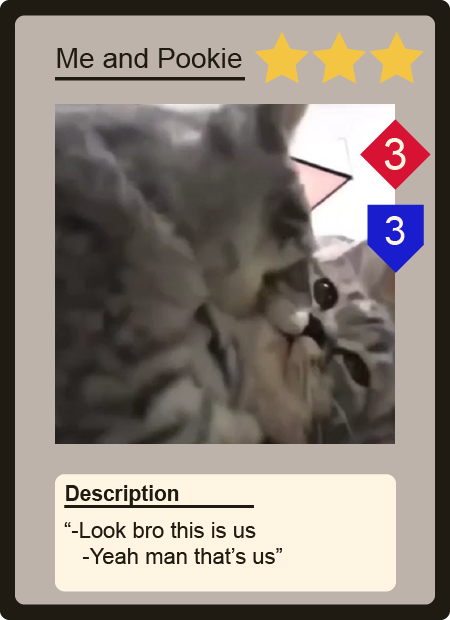
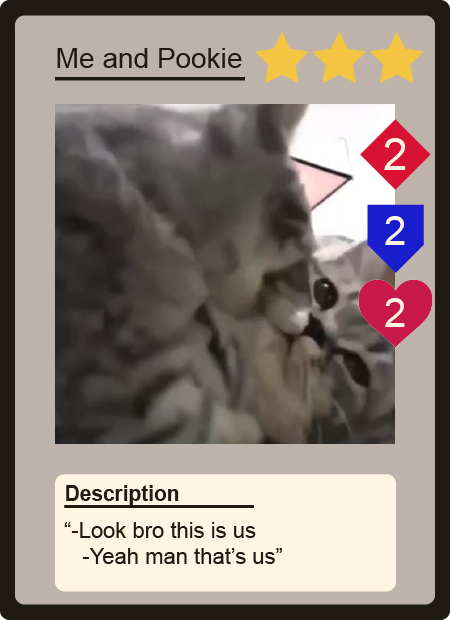
Added special effects for cards: healing, swapping and stealing

Changed region(s): [[0.7778, 0.429, 0.9644, 0.5823], [0.84, 0.3371, 0.9022, 0.3984], [0.84, 0.2145, 0.9022, 0.2758]]

diff --git a/controllers/gameControllers.js b/controllers/gameControllers.js
@@ -140,6 +140,36 @@ export const playCard = (io, socket, info, games) => {
         opponent.hp -= remainingAtk;
     }
 
+    player.hp = Math.min(20, player.hp + card.heal);
+
+    if (card.ability) {
+        if (card.ability === 'swap') {
+            player.cards.splice(player.cards.indexOf(card), 1);
+            const temp = player.cards.concat(game.deck.getCards(1));
+            player.cards = opponent.cards;
+            opponent.cards = temp;
+        }
+        if (card.ability === 'steal') {
+            const success = Math.random() < 0.5;
+
+            if ( card.name === 'Sniffer' || success) {
+                const costlyCard = opponent.cards.reduce((maxCard, currentCard) => {
+                    return currentCard.cost > maxCard.cost ? currentCard : maxCard;
+                });
+                player.cards = player.cards.concat(costlyCard);
+                opponent.cards.splice(opponent.cards.indexOf(costlyCard), 1);
+                opponent.cards = opponent.cards.concat(game.deck.getCards(1));
+            }
+            else {
+                const costlyCard = player.cards.reduce((maxCard, currentCard) => {
+                    return currentCard.cost > maxCard.cost ? currentCard : maxCard;
+                });
+                player.cards.splice(player.cards.indexOf(costlyCard), 1);
+                player.cards = player.cards.concat(game.deck.getCards(1));
+            }
+        }
+    }
+
     if (opponent.hp <= 0) {
         game.winner = player;
         game.loser = opponent;
@@ -148,7 +178,9 @@ export const playCard = (io, socket, info, games) => {
     }
 
     player.def = card.def;
-    player.cards.splice(player.cards.indexOf(card), 1);
+    if (card.ability !== 'swap') {
+        player.cards.splice(player.cards.indexOf(card), 1);
+    }
 
     io.to(info.roomId).emit('card-played', { player1: player, player2: opponent, turn: game.turn });
 }

diff --git a/models/Card.js b/models/Card.js
@@ -3,10 +3,12 @@ import { join } from "path";
 import { __dirname } from "../utils.js";
 
 export class Card {
-    constructor(name, atk, def, cost) {
+    constructor(name, atk, def, heal = 0, ability = null, cost) {
         this.name = name;
         this.atk = atk;
         this.def = def;
+        this.heal = heal;
+        this.ability = ability;
         this.cost = cost;
     }
 

diff --git a/models/Deck.js b/models/Deck.js
@@ -21,7 +21,7 @@ export class Deck {
 
             const index = Math.floor(Math.random() * this.size);
             const [card] = this.cards.splice(index, 1);
-            cards.push(new Card(card.name, card.atk, card.def, card.cost, card.cost));
+            cards.push(new Card(card.name, card.atk, card.def, card.heal, card.ability, card.cost));
             this.size--;
         }
 
